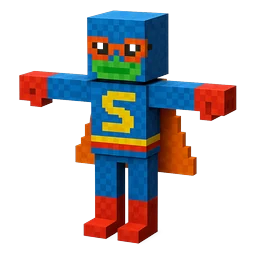
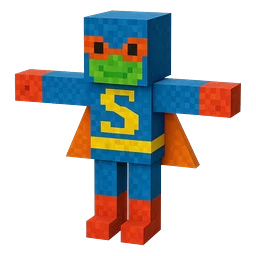
Minecraft style: wear only what the drawing shows (#71)
Raz's penguin came back with a letter on its belly and an outfit it never
had: the voxel look pulls in the game's default outfit, and the prompt's
own 'an emblem drawn on the costume stays' invited an emblem. Now every
color, marking and piece of clothing must come from the drawing, nothing
is added, and a part drawn plainly stays plain. Checked on four drawings
(the penguin, Crayon Kid whose drawn S stays, Lady Milana, Cookie Man).

Claude-Session: https://claude.ai/code/session_01Ng7tYe76NeyKG1caM69u3J

Changed region(s): [[0.0312, 0.0312, 0.9688, 0.9688]]

diff --git a/backend/app/services/openai.py b/backend/app/services/openai.py
@@ -75,13 +75,14 @@ MINECRAFT_PROMPT = """Transform this drawing into a blocky voxel-game 3D charact
 
 Requirements:
 - One single character, built from the drawing: keep its colors, clothing, accessories and features, rebuilt from cubes
+- Faithful to the drawing: every color, marking and piece of clothing comes from the drawing. Add nothing it does not show: no default game outfit, no extra clothing, letters, symbols, logos or patterns. A part drawn plainly stays plain, in the drawing's own color
 - A cube-shaped head, a rectangular box body, box-shaped arms and box-shaped legs, all with sharp square edges
 - Pixel-art skin on every face of every block: flat squares of color, no smooth gradients, no curves
 - Hair and accessories as small blocks attached to the body
 - Front view, full body visible, standing upright, fully contained in the view without cropping.
 - T-pose: arms extended horizontally, legs straight
 - Transparent background: only the character, no floor, no ground shadow, no scenery, no terrain blocks
-- No added text: no captions, labels or logos; an emblem drawn on the costume stays, in pixels
+- No added text: no captions, labels or logos
 - High quality 3D render, well-lit, clean edges, good contrast
 
 Render the character as a blocky voxel figure that is clearly the one in the drawing, with arms extended horizontally, ready for 3D model generation."""
